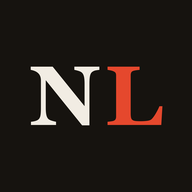
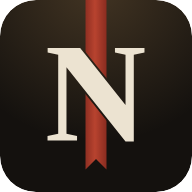
feat(web): Okuma Salonu logosu ve ayrı maskable ikonlar
Eski "NL" monogramı (Georgia metni, eski kırmızı) yerine Okuma Salonu dilinde
yeni logo: ceviz zemin, lamba ışığı, Libre Caslon Text kalın "N" ve harfin
çaprazının arkasından geçen mühür kırmızısı kitap ayracı kurdelesi.

- Glif yol olarak gömülü; ikon sistem yazı tipine bağlı değil.
- scripts/ikon_uret.py SVG'yi ve tüm PNG'leri (Playwright Chromium) üretir.
- "any" ikonlar yuvarlak köşeli/saydam; maskable ve iOS ikonları ayrı ve
  kenara kadar zeminli (içerik güvenli dairede).
- Kabuk v128; yeni PNG'ler ve apple-touch-icon çevrimdışı kabukta.

diff --git a/app/web/sw.js b/app/web/sw.js
@@ -1,7 +1,7 @@
 // SHELL_CACHE: statik kabuk, sürümle değişir → activate'te eskisi silinir.
 // DATA_CACHE: /api yanıtları (bölümler dahil), SABİT isim → sürüm artışı
 // çevrimdışı indirilen bölümleri asla silmez.
-const SHELL_CACHE = "novellink-shell-v127"; // Okuma Salonu: kapak geçişi
+const SHELL_CACHE = "novellink-shell-v128"; // Okuma Salonu logosu
 const DATA_CACHE = "novellink-data";
 const sozlukNesilleri = new Map(); // ret/yazım sonrası eski GET önbelleğe geri yazamaz
 
@@ -57,6 +57,9 @@ const SHELL = [
   "/icon.svg",
   "/icon-192.png",
   "/icon-512.png",
+  "/icon-maskable-192.png",
+  "/icon-maskable-512.png",
+  "/apple-touch-icon.png",
   // Yazi tipleri kabugun PARCASIDIR: `cacheFirst` SHELL disindaki bir statigi
   // ASLA cache'e yazmaz, yani burada olmayan font cevrimdisiyken indirilemez ve
   // tasarim sistem fontuna duserdi. ~700 KB, bir kez iner.

diff --git a/scripts/ikon_uret.py b/scripts/ikon_uret.py
@@ -1,0 +1,114 @@
+"""NovelLink uygulama ikonunu üretir: `app/web/icon.svg` + PWA/iOS PNG'leri.
+
+Okuma Salonu (2026-10-13) dilinde logo: ceviz zemin, üstten lamba ışığı, Libre
+Caslon Text kalın "N" (kâğıt rengi) ve harfin çaprazının ARKASINDAN geçip altta
+çentikle biten mühür kırmızısı kitap ayracı kurdelesi ("kaldığın yer").
+
+Glif, `app/web/fonts/libre-caslon-text-700-latin.woff2` içinden fontTools ile
+çıkarılmış yoldur (SIL OFL; gömmeye izin verir). Yol olarak gömülür ki ikon
+tarayıcıdaki sistem yazı tipine (eski logodaki Georgia gibi) bağlı kalmasın.
+
+PNG'ler projenin Playwright Chromium'uyla çizilir; SVG ile birebir aynı görünür.
+Çalıştırma (kök dizinden):  .venv/Scripts/python.exe scripts/ikon_uret.py
+"""
+
+from __future__ import annotations
+
+import pathlib
+import sys
+
+from playwright.sync_api import sync_playwright
+
+WEB = pathlib.Path(__file__).resolve().parent.parent / "app" / "web"
+
+# Libre Caslon Text Bold "N" (upm 1000, taban çizgisi y=0, yukarı +y).
+N_YOLU = (
+    "M689 -10 197 610V56L285 37V0H39V37L128 56V714L40 733V770H311L689 295"
+    "V714L601 733V770H847V733L758 714V-10Z"
+)
+OLCEK = 0.32  # büyük harf yüksekliği ~246 px (512 tuvalde)
+N_DONUSUM = (
+    f"translate({256 - (39 + 847) / 2 * OLCEK:.2f} {128 + 770 * OLCEK:.2f}) "
+    f"scale({OLCEK} {-OLCEK})"
+)
+
+# Renkler style.css gece temasından: zemin --bg, harf --ink, lamba --lamp;
+# kurdele mühür kırmızısı (--stamp gündüz #a23a2a) çevresinde kumaş gölgesi.
+ZEMIN = "#14110e"
+MUREKKEP = "#ece3d1"
+KOSE = 96  # yuvarlak köşe ("any" ikon ve favicon)
+
+# Kurdele: tuvalin üst kenarından sarkar, N'nin üst serifleri arasından girer,
+# çaprazın arkasından geçer, taban çizgisinin altında V çentikle biter. Maskeli
+# (maskable) ikonun güvenli dairesi (yarıçap 205) içinde kalır.
+KURDELE = "M228 0H284V452L256 424L228 452Z"
+
+
+def svg(tam_tasma: bool = False) -> str:
+    """`tam_tasma`: köşesiz, kenara kadar zemin (maskable PNG ve iOS için)."""
+    if tam_tasma:
+        kirp_tanim, kirp = "", ""
+        zemin = f'<rect width="512" height="512" fill="{ZEMIN}"/>'
+    else:
+        kirp_tanim = f'<clipPath id="kose"><rect width="512" height="512" rx="{KOSE}"/></clipPath>'
+        kirp = ' clip-path="url(#kose)"'
+        zemin = f'<rect width="512" height="512" rx="{KOSE}" fill="{ZEMIN}"/>'
+    return f"""<svg xmlns="http://www.w3.org/2000/svg" viewBox="0 0 512 512">
+  <!-- NovelLink: Okuma Salonu logosu. Elle düzenleme; scripts/ikon_uret.py üretir. -->
+  <defs>
+    {kirp_tanim}
+    <radialGradient id="lamba" cx="256" cy="-40" r="420" gradientUnits="userSpaceOnUse">
+      <stop offset="0" stop-color="#ffc478" stop-opacity=".2"/>
+      <stop offset="1" stop-color="#ffc478" stop-opacity="0"/>
+    </radialGradient>
+    <linearGradient id="kurdele">
+      <stop offset="0" stop-color="#8f2f22"/>
+      <stop offset=".45" stop-color="#b8432f"/>
+      <stop offset="1" stop-color="#8a2c20"/>
+    </linearGradient>
+    <!-- N'nin çevresinde ince boşluk: kurdele harfin arkasından geçiyor okunur -->
+    <mask id="oyuk">
+      <rect width="512" height="512" fill="#fff"/>
+      <path transform="{N_DONUSUM}" d="{N_YOLU}" fill="#000" stroke="#000" stroke-width="30" stroke-linejoin="round"/>
+    </mask>
+  </defs>
+  <g{kirp}>
+    {zemin}
+    <rect width="512" height="512" fill="url(#lamba)"/>
+    <path mask="url(#oyuk)" fill="url(#kurdele)" d="{KURDELE}"/>
+  </g>
+  <path transform="{N_DONUSUM}" d="{N_YOLU}" fill="{MUREKKEP}"/>
+</svg>
+"""
+
+
+# (dosya, piksel, tam_tasma): "any" ikonlar yuvarlak köşeli ve saydam; maskable
+# ve iOS kenara kadar zemin ister (köşeyi işletim sistemi keser).
+PNGLER = [
+    ("icon-192.png", 192, False),
+    ("icon-512.png", 512, False),
+    ("icon-maskable-192.png", 192, True),
+    ("icon-maskable-512.png", 512, True),
+    ("apple-touch-icon.png", 180, True),
+]
+
+
+def main() -> None:
+    sys.stdout.reconfigure(encoding="utf-8")  # Windows konsolu cp1252: "ı" basılamaz
+    (WEB / "icon.svg").write_text(svg(), encoding="utf-8")
+    with sync_playwright() as p:
+        tarayici = p.chromium.launch()
+        for ad, boyut, tam in PNGLER:
+            sayfa = tarayici.new_page(viewport={"width": boyut, "height": boyut})
+            icerik = svg(tam).replace("<svg ", f'<svg width="{boyut}" height="{boyut}" ', 1)
+            sayfa.set_content(
+                f'<html><body style="margin:0;background:transparent">{icerik}</body></html>'
+            )
+            sayfa.screenshot(path=str(WEB / ad), omit_background=not tam)
+            sayfa.close()
+        tarayici.close()
+    print("yazıldı:", "icon.svg", *(ad for ad, _, _ in PNGLER))
+
+
+if __name__ == "__main__":
+    main()
